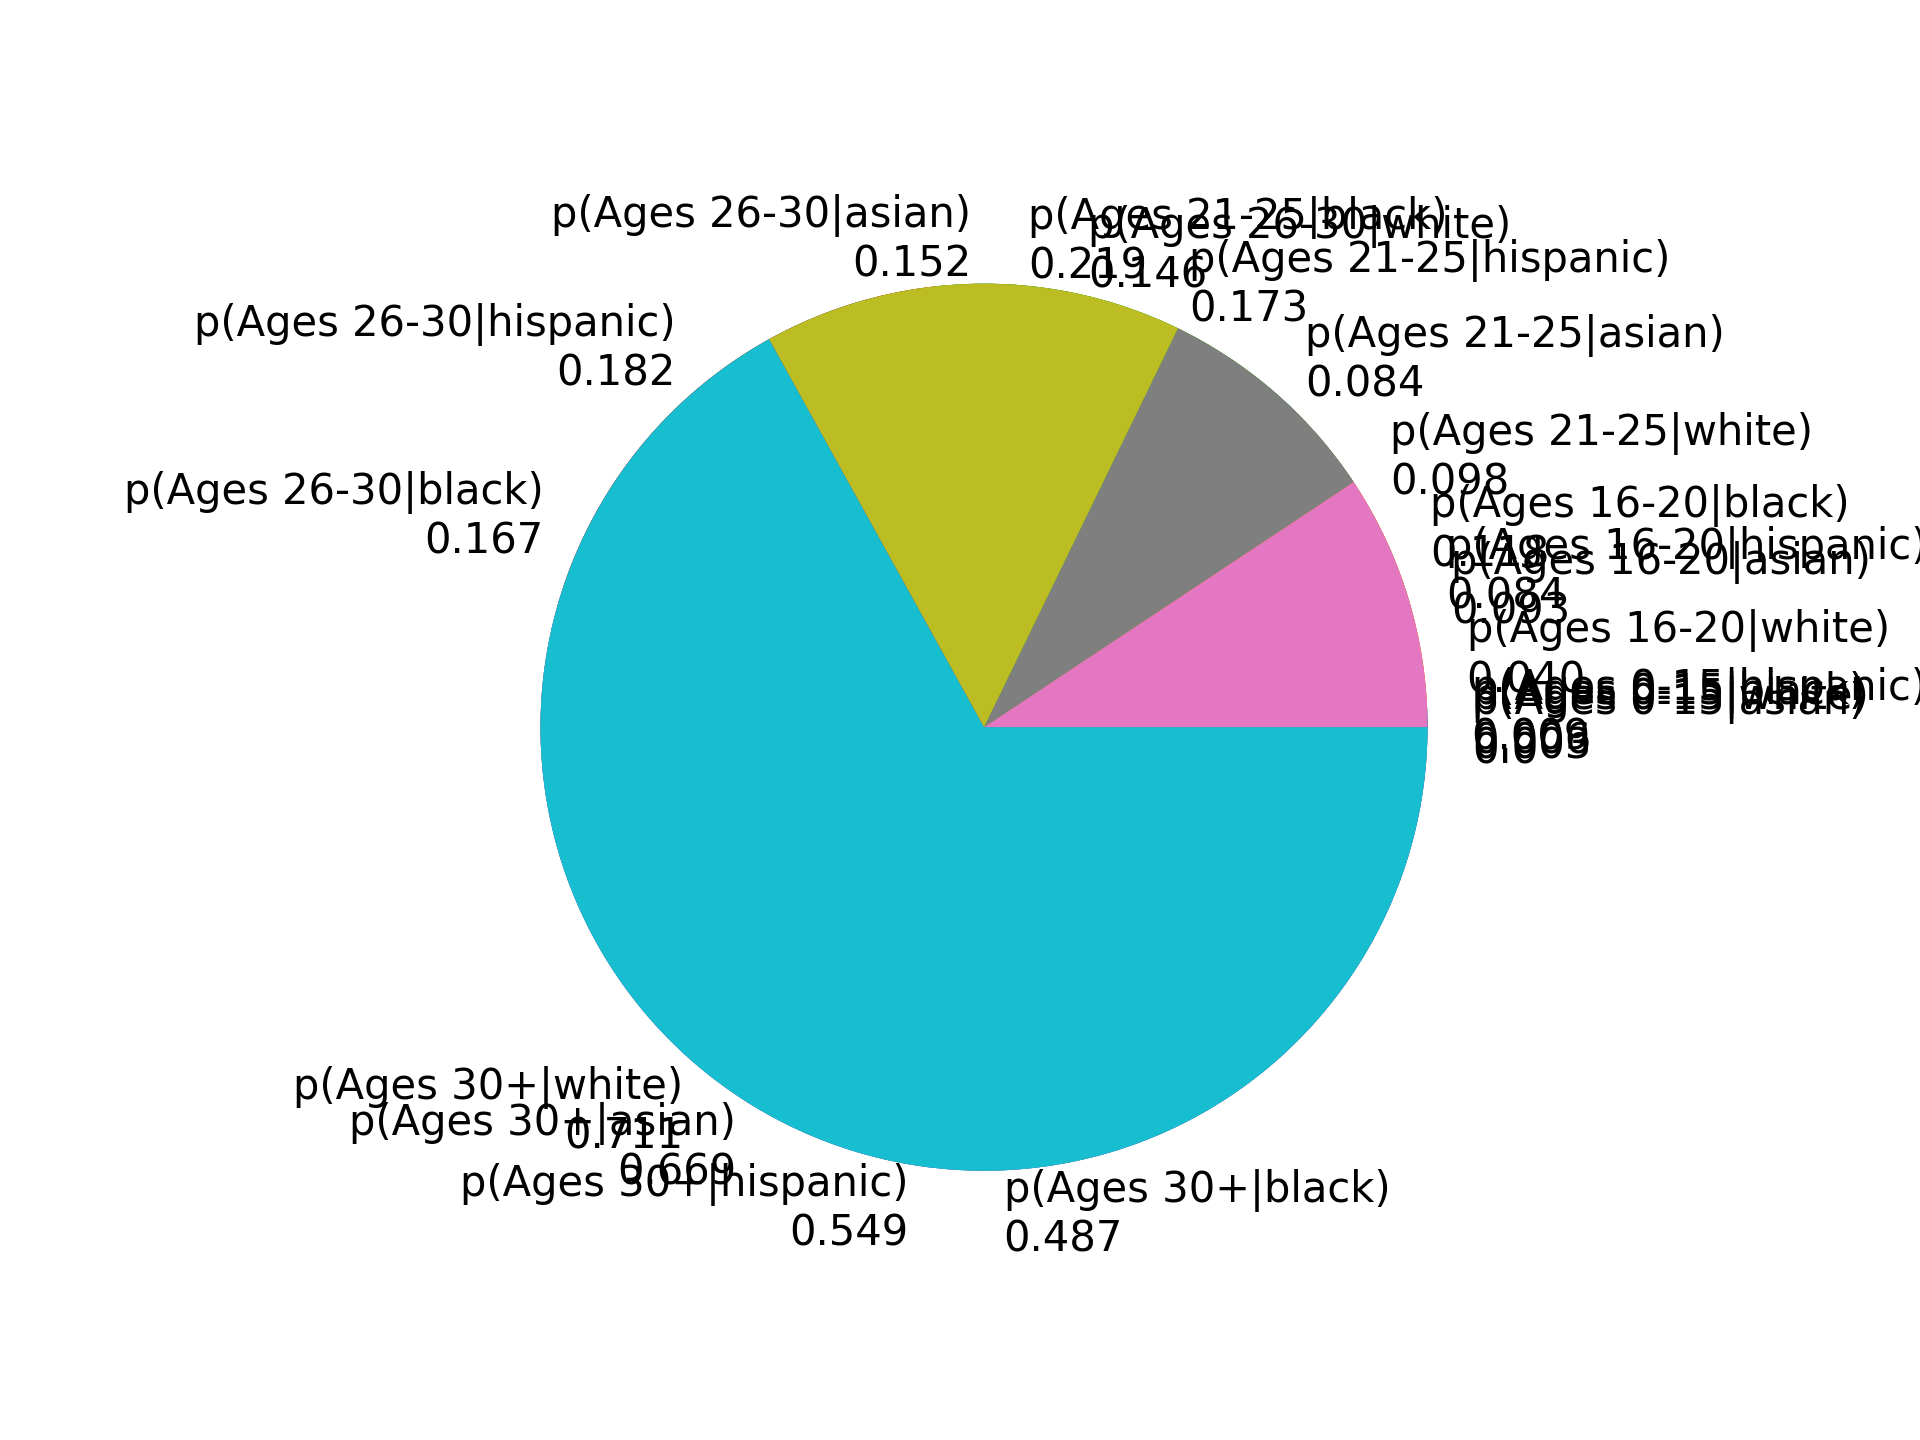
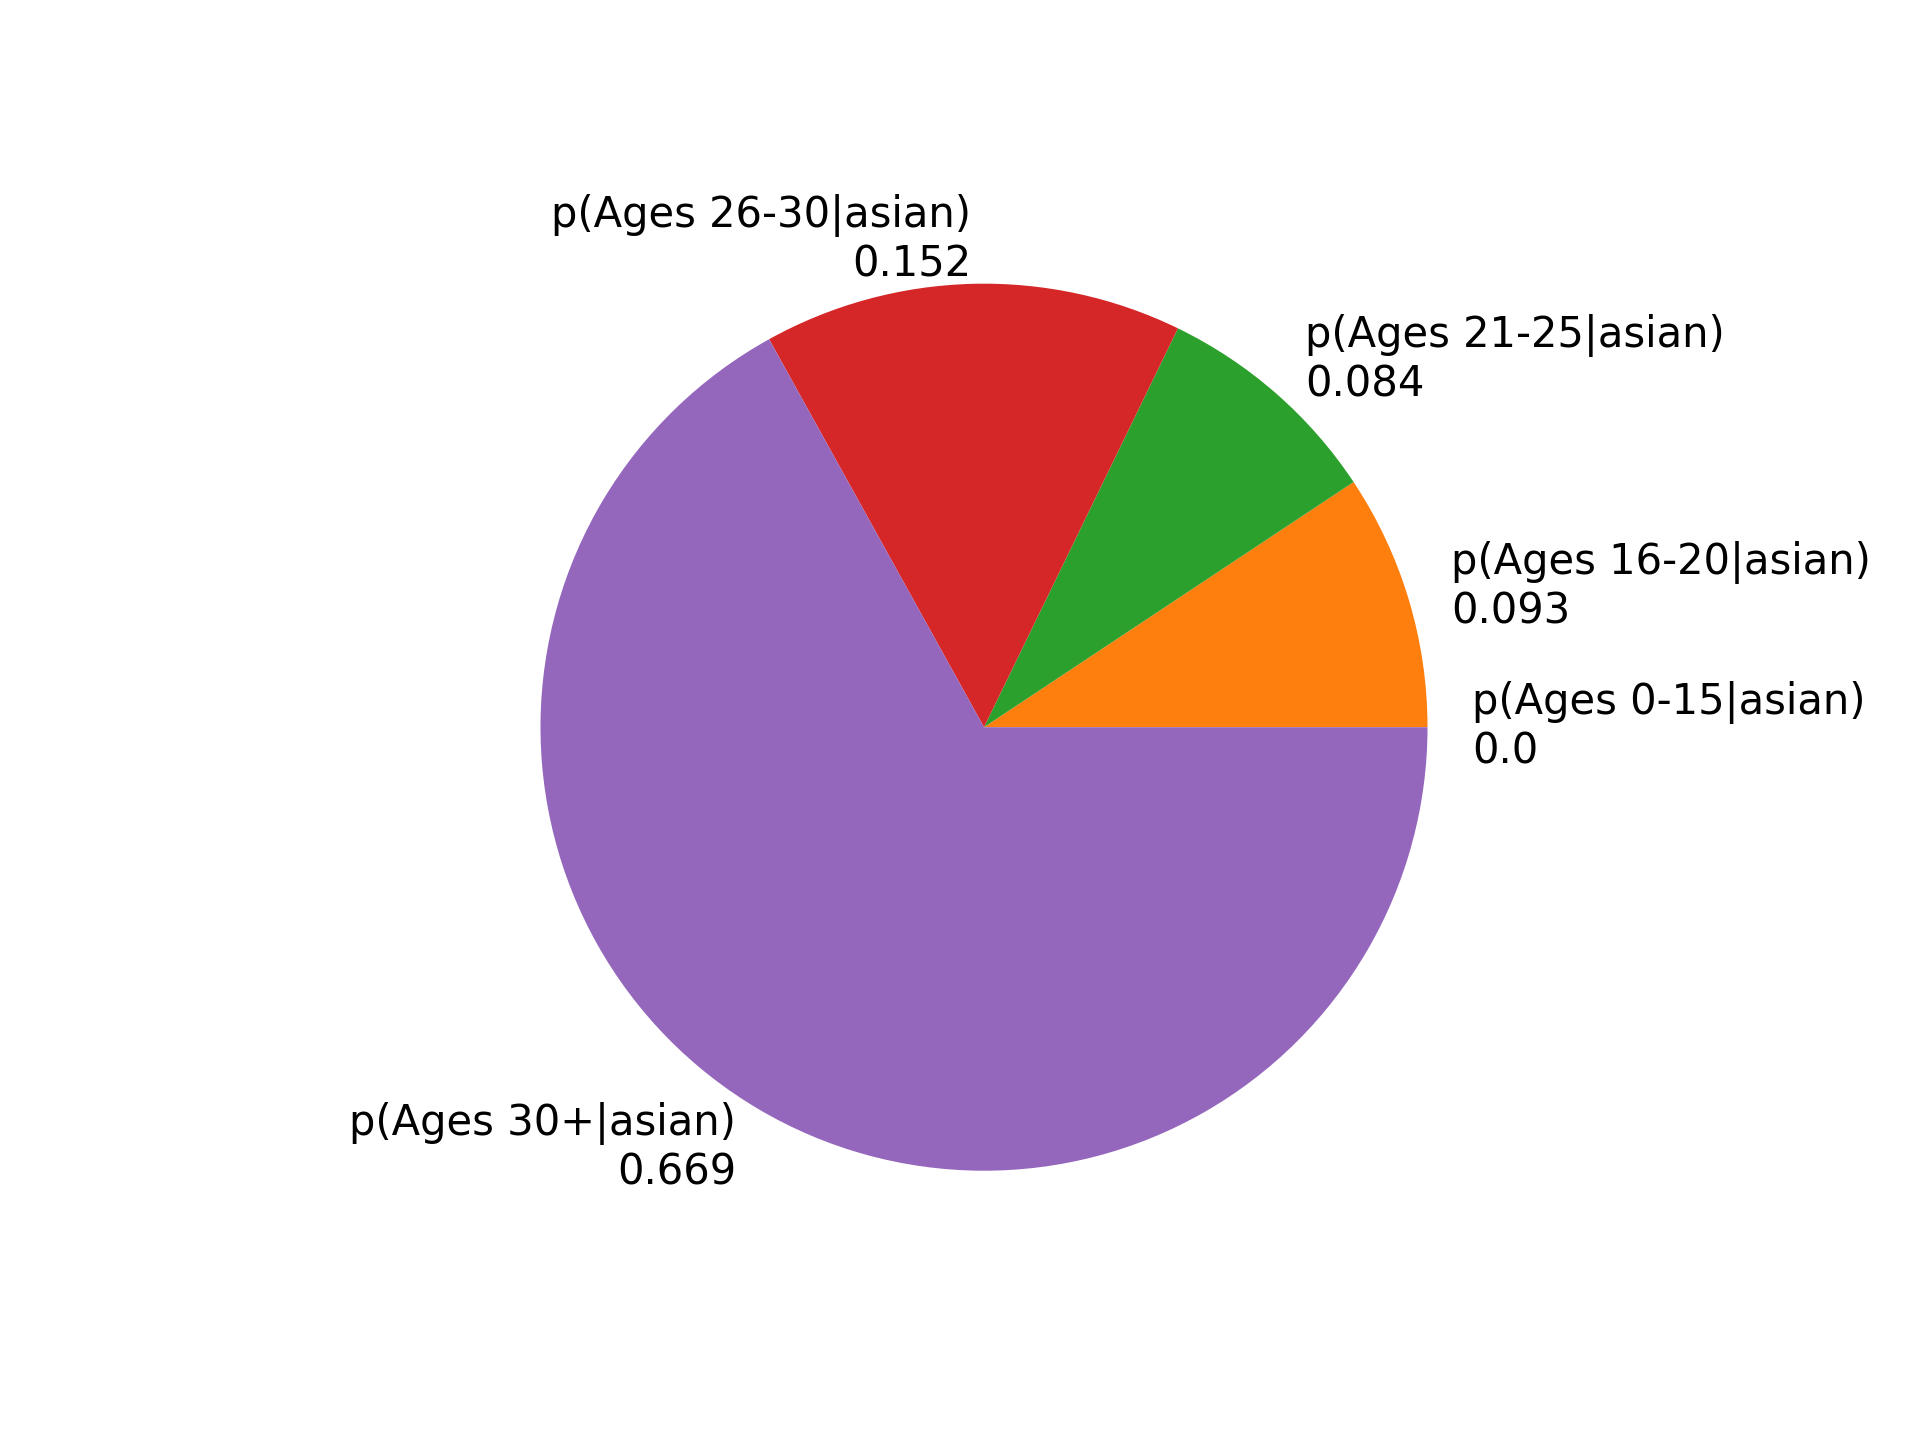
Pie chart images

Changed region(s): [[0.0625, 0.125, 1.0, 0.875]]

diff --git a/Lab 1/pychart.py b/Lab 1/pychart.py
@@ -33,11 +33,18 @@ asian = np.array([
 
 
 
+plt.figure()
 plt.pie(black, labels = ['p('+labels[i]+'|black)'+'\n'+str(x)[:5] for i,x in enumerate(black)])
 plt.savefig('black.png', dpi=300)
+
+plt.figure()
 plt.pie(white, labels = ['p('+labels[i]+'|white)'+'\n'+str(x)[:5] for i,x in enumerate(white)])
 plt.savefig('white.png', dpi=300)
+
+plt.figure()
 plt.pie(hispanic, labels = ['p('+labels[i]+'|hispanic)'+'\n'+str(x)[:5] for i,x in enumerate(hispanic)])
 plt.savefig('hispanic.png', dpi=300)
+
+plt.figure()
 plt.pie(asian, labels = ['p('+labels[i]+'|asian)'+'\n'+str(x)[:5] for i,x in enumerate(asian)])
 plt.savefig('asian.png', dpi=300)
